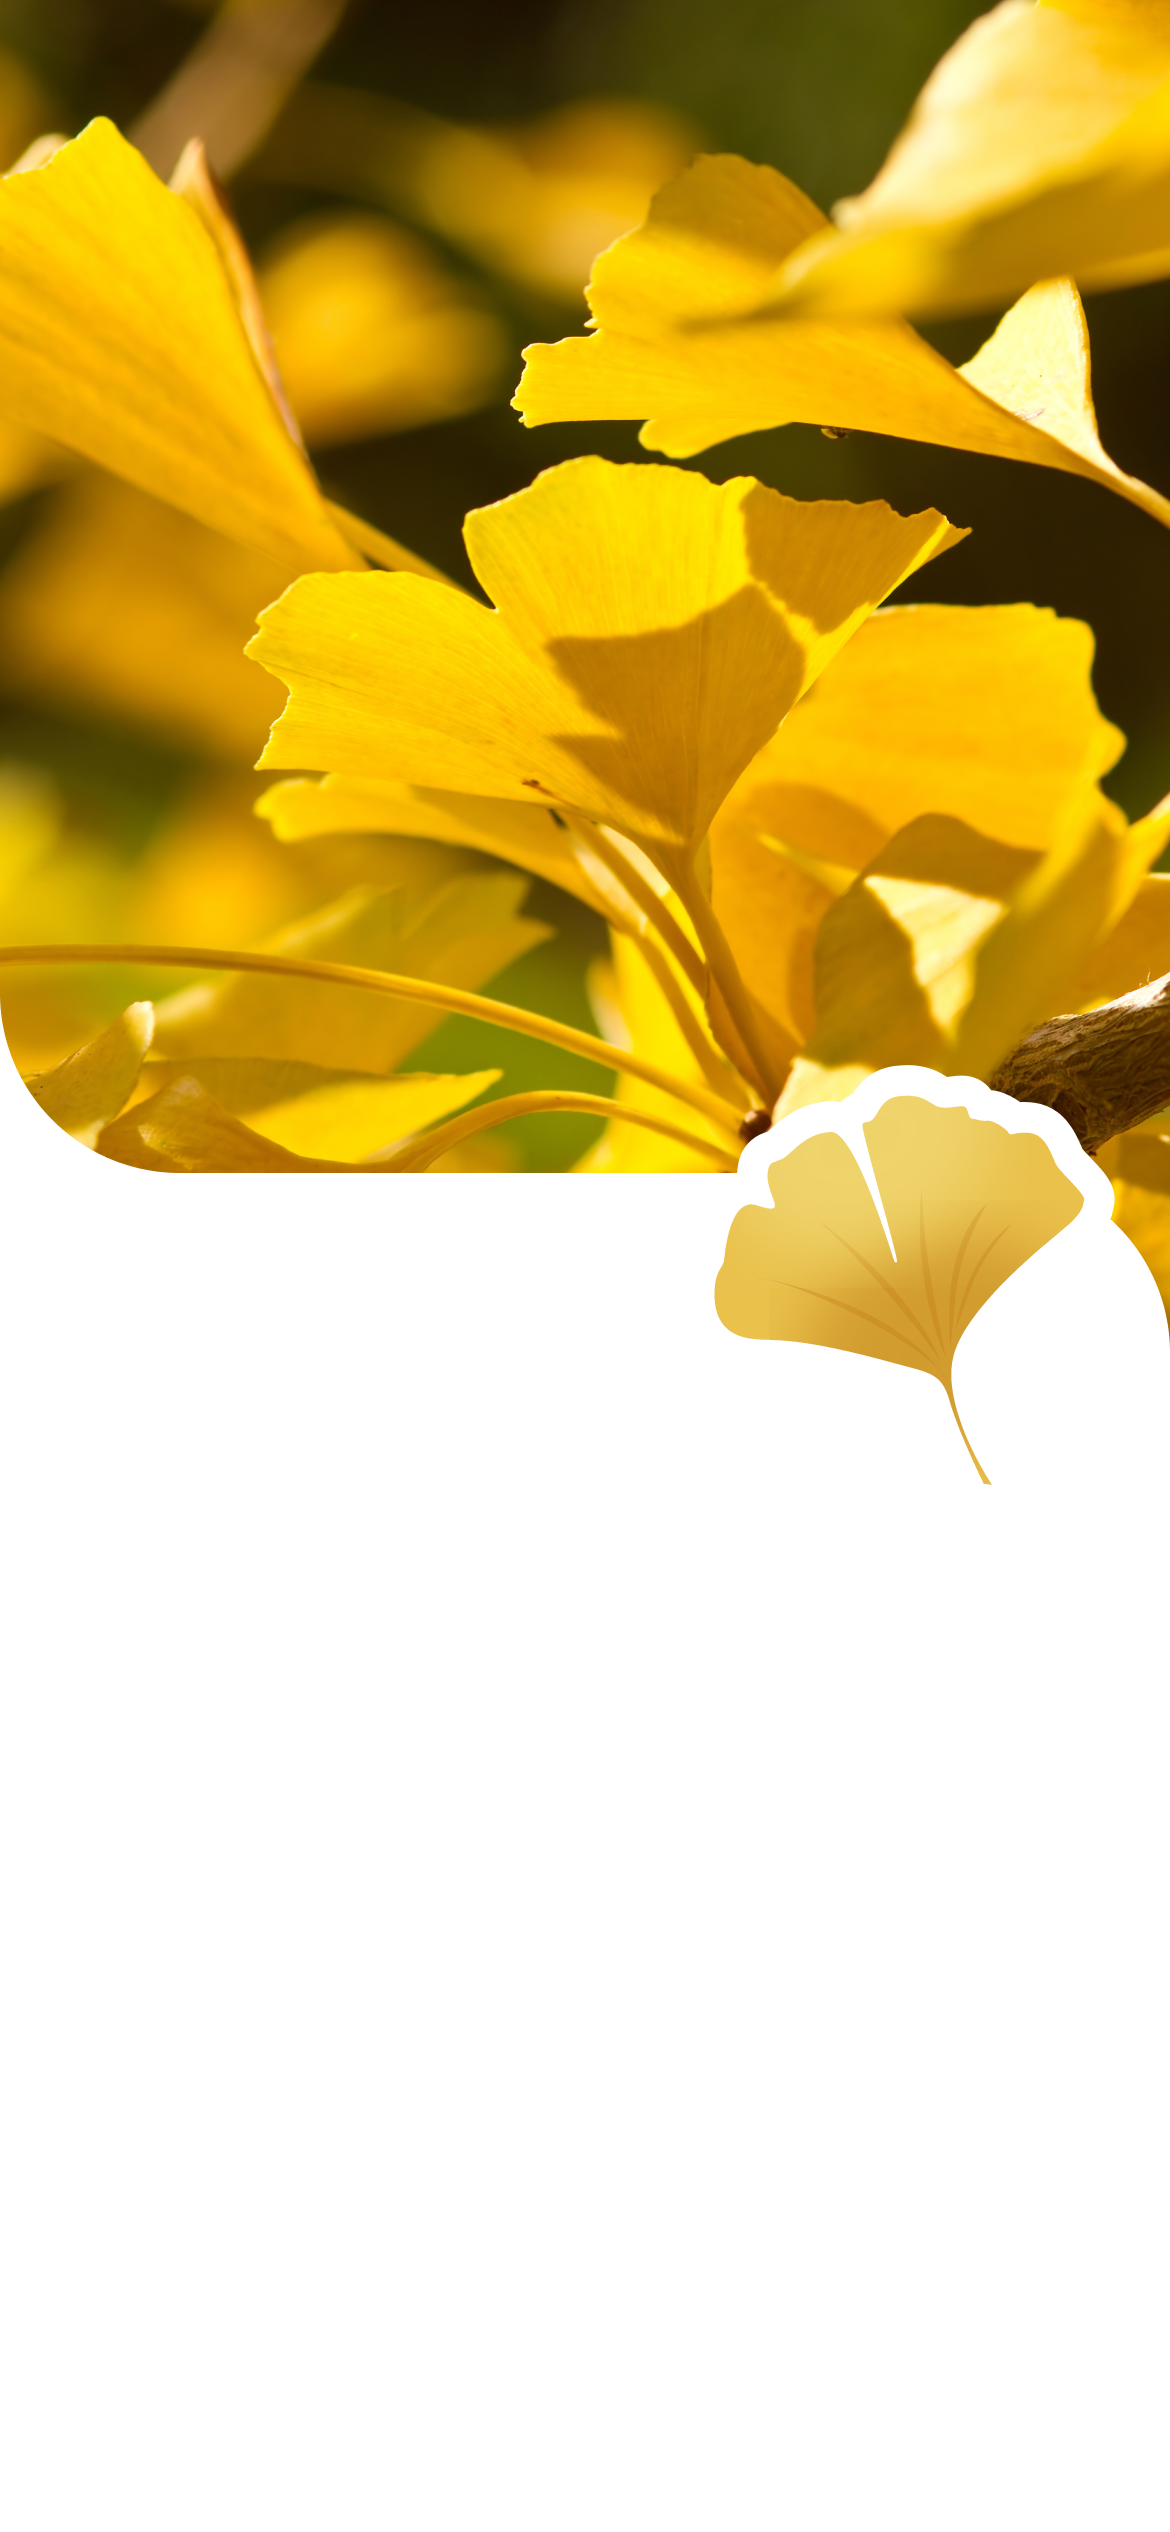
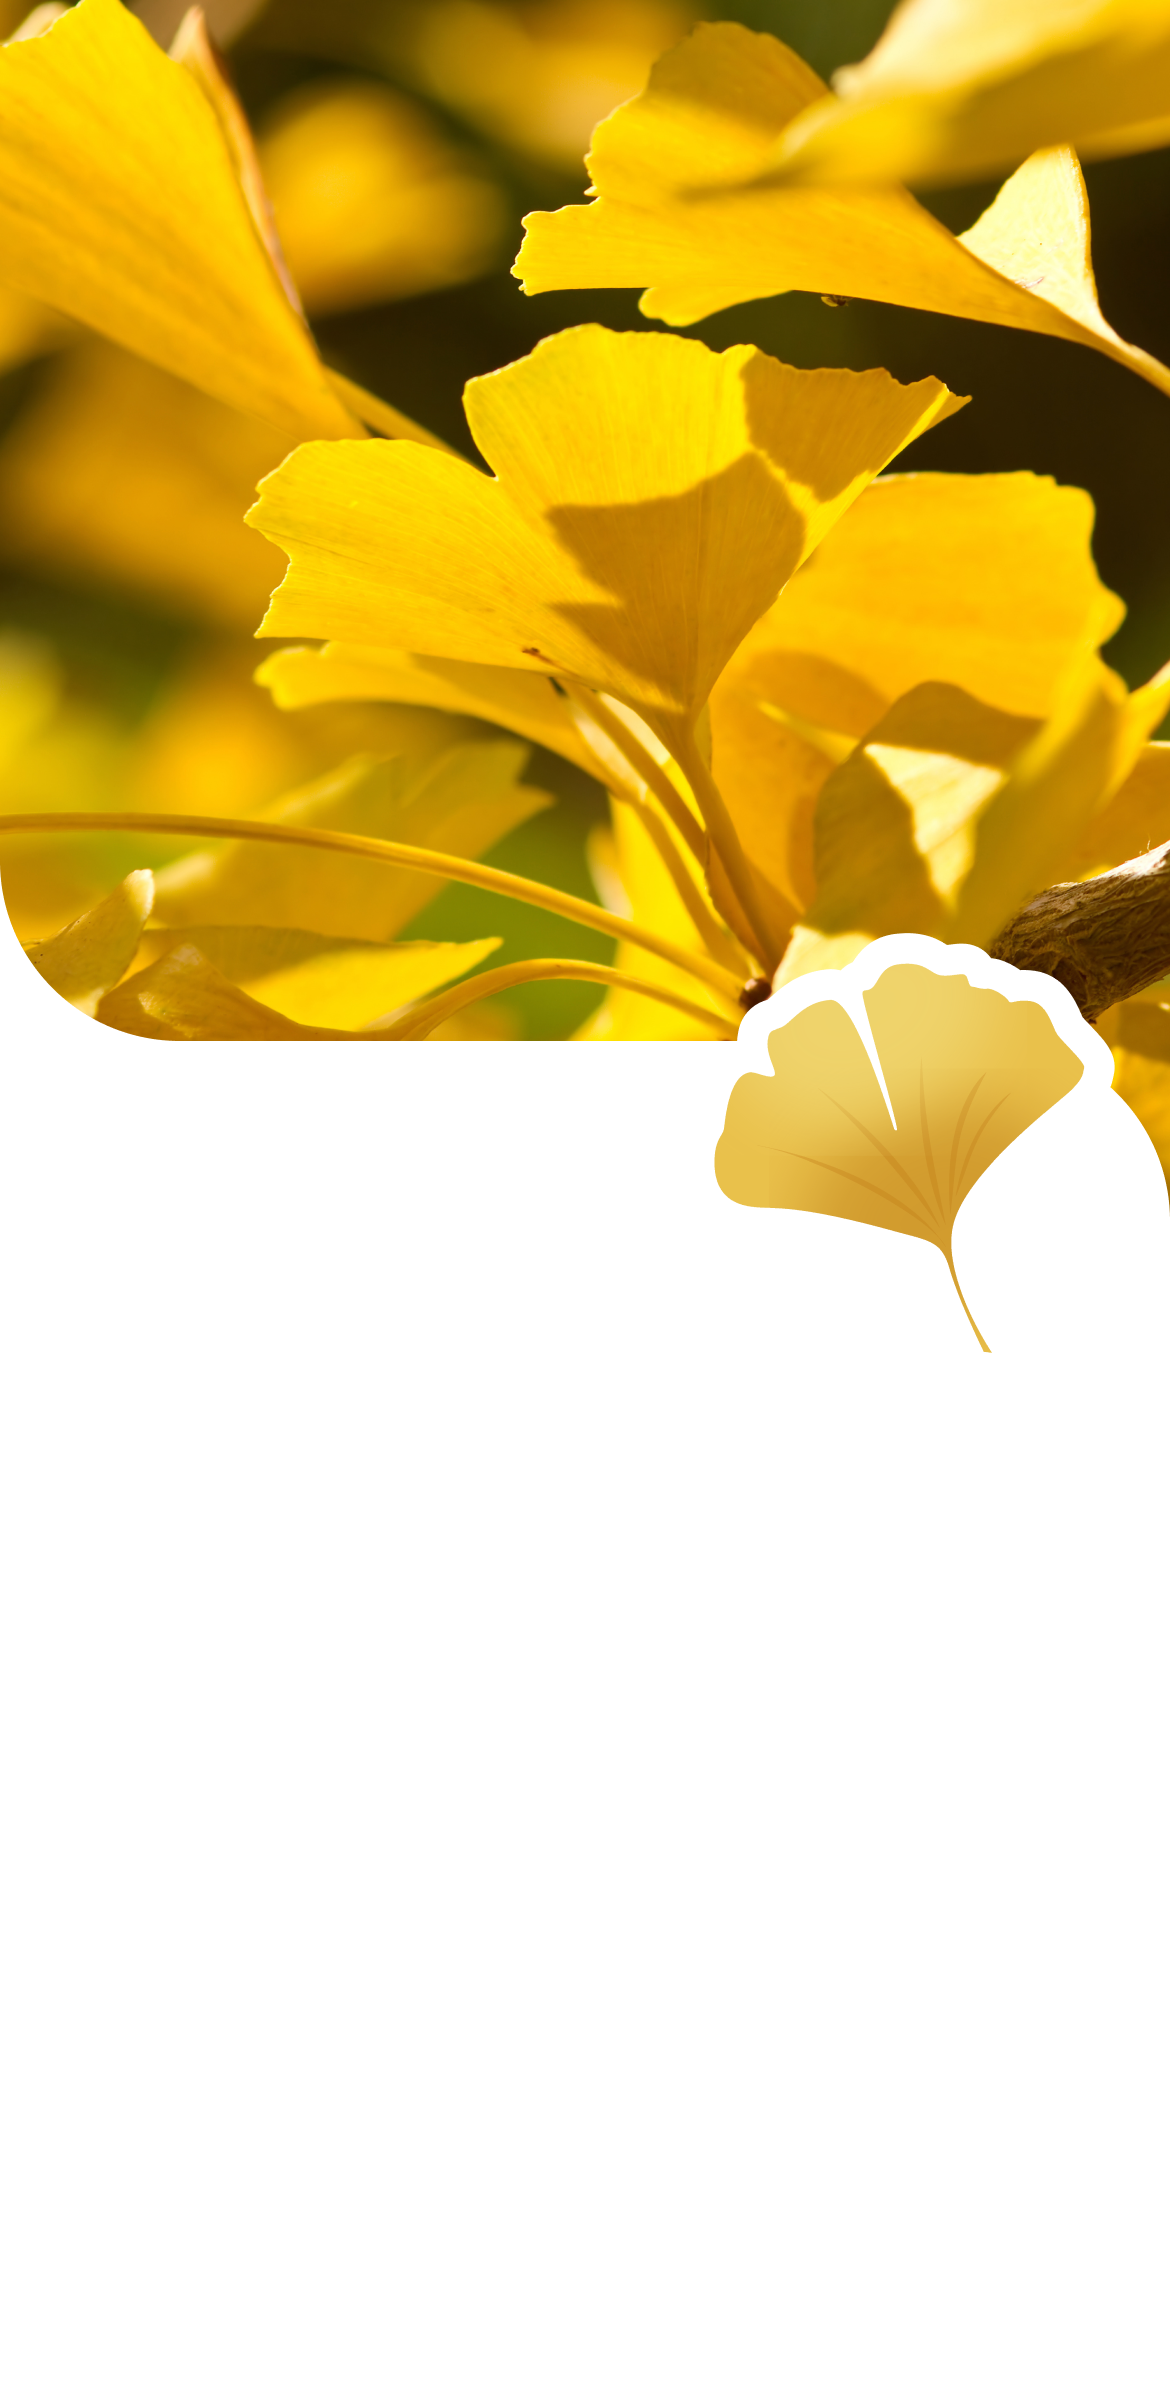
7.0

diff --git a/ch.html b/ch.html
@@ -91,17 +91,17 @@
         <div class="question-text">
             <div class="questionmtext">
                 <div class="flex2">
-                    <p class="textg"><img src="./img/arrow.svg" alt="" width="16px"> 目前位置</p>
-                    <p>23°40'20.3"N 120°47'47.0"E</p>
+                    <p class="textb"><img src="./img/arrow.svg" alt="" width="16px" class="icon"> 目前位置</p>
+                    <p class="textg">23°40'20.3"N 120°47'47.0"E</p>
                 </div>
                 <p class="text">溪位於南投鹿谷鄉鳳凰谷山麓，溪頭的名稱使於清末時期，以「溪流源頭」意象為名，南投北勢溪從此地發源。</p>
                 <a href="./trail.html">
-                    <div class="traila">
+                    <div>
                         <img src="./img/2-5-1.png" alt="" width="160px" class="trailimg">
                         <div class="trail">
                             <h3>大學池步道</h3>
-                            <p class="trailtext"><img src="./img/altitude.svg" alt="" class="icon"> 1075~1155 <span>
-                                    M</span></p>
+                            <p class="trailtext"><img src="./img/altitude.svg" alt="" class="icon"> 1075~1155
+                                <span>M</span></p>
                             <p>
                                 <img src="./img/min.svg" alt="" class="icon"> 120<span> min</span>
                                 <img src="./img/KM.svg" alt="" class="icon"> 1.56<span> KM</span>

diff --git a/css/guide.css b/css/guide.css
@@ -4,15 +4,16 @@ body {
     margin-right: auto;
     padding: 0;
     width: 390px;
+    height: 800px;
     font-family: -apple-system, BlinkMacSystemFont, 'Segoe UI', Roboto, Oxygen, Ubuntu, Cantarell, 'Open Sans', 'Helvetica Neue', sans-serif;
     text-align: center;
 }
 
 h2 {
-    padding-top: 35px;
     font-size: 20px;
     font-weight: normal;
     padding-left: 16px;
+    line-height: 12px;
 }
 
 h1 {
@@ -38,14 +39,14 @@ nav {
     position: fixed;
     width: 390px;
     display: flex;
-    background-image: url(../img/nav.png);
-    height: 100px;
+    background-color: #000;
+    background: linear-gradient(to bottom, #000, rgba(0, 0, 0, 0));
+    height: 56px;
     font-size: 20px;
     color: #ffffff;
 }
 
 .back {
-    padding-top: 45px;
     padding-left: 16px;
 }
 
@@ -66,7 +67,7 @@ nav {
 .w {
     background-image: url(../img/w.png);
     background-repeat: no-repeat;
-    height: 844px;
+    height: 800px;
     margin-bottom: 0;
     padding-bottom: 0;
 }

diff --git a/css/ch.css b/css/ch.css
@@ -28,11 +28,13 @@ h3 {
     height: 12px;
     font-weight: bold;
     color: #548B6C;
+    margin-top: 0;
 }
 
 p {
     font-size: 16px;
     font-weight: normal;
+    margin-bottom: 0;
 }
 
 span {
@@ -152,7 +154,9 @@ nav {
     margin-bottom: -125px;
     padding-bottom: 26px;
 }
-
+.textb {
+    color: #6f6f6f;
+}
 .textg {
     color: #548B6C;
 }
@@ -164,7 +168,6 @@ nav {
 
 .trailimg {
     margin-right: 20px;
-
 }
 
 .icon {
@@ -174,12 +177,15 @@ nav {
 .trailtext {
     height: 12px;
 }
+.trail{
 
+    background-color: rgb(211, 154, 154);
+}
 
 .question-text {
     display: none;
-    padding-top: 65px;
-    padding-bottom: 65px;
+    padding-top: 75px;
+    padding-bottom: 100px;
     margin-bottom: -125px;
     background-color: rgb(255, 255, 255);
 }

diff --git a/css/season.css b/css/season.css
@@ -5,7 +5,7 @@ body {
     padding: 0;
     width: 390px;
     font-family: -apple-system, BlinkMacSystemFont, 'Segoe UI', Roboto, Oxygen, Ubuntu, Cantarell, 'Open Sans', 'Helvetica Neue', sans-serif;
-background-color: black;
+    background-color: black;
 }
 
 h2 {

diff --git a/css/guide_slide_down.css b/css/guide_slide_down.css
@@ -6,7 +6,6 @@ body {
     width: 390px;
     font-family: -apple-system, BlinkMacSystemFont, 'Segoe UI', Roboto, Oxygen, Ubuntu, Cantarell, 'Open Sans', 'Helvetica Neue', sans-serif;
     text-align: center;
-
 }
 
 a {
